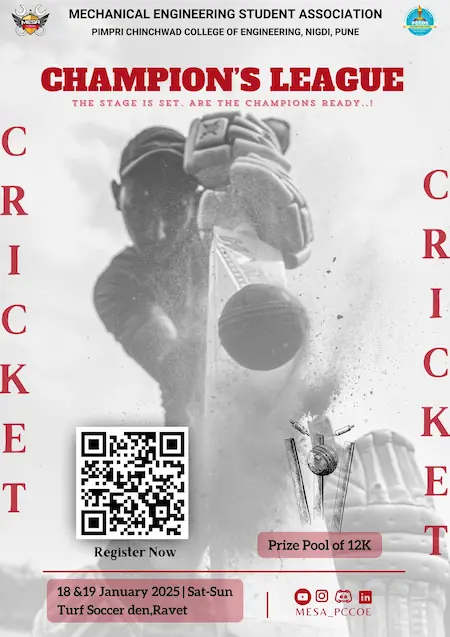
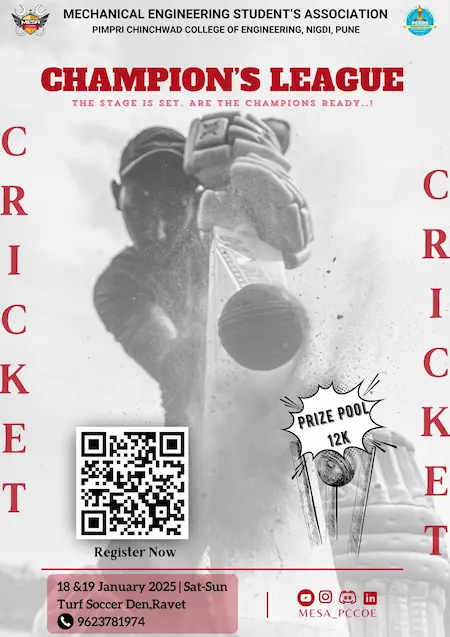
updated events

Changed region(s): [[0.0933, 0.5965, 0.9022, 1.0], [0.1244, 0.0, 0.8711, 0.0597]]

diff --git a/components/EventPopup.tsx b/components/EventPopup.tsx
@@ -1,7 +1,6 @@
 "use client"
 
 import { useState, useEffect } from 'react'
-import { X } from 'lucide-react'
 import { Button } from "@/components/ui/button"
 import {
   Dialog,
@@ -25,7 +24,7 @@ export function EventPopup() {
 
   const handleRegisterClick = (e: React.MouseEvent) => {
     e.stopPropagation()
-    window.open('https://docs.google.com/forms/d/e/1FAIpQLSd8f3GrwLbeSHZ5cZF1HNEXjdILUiZAOUqbfYk8p35XhGzPYg/viewform?usp=dialog', '_blank', 'noopener,noreferrer')
+    window.open('/upcoming-events/#champions-league', '_blank', 'noopener,noreferrer')
   }
 
   return (
@@ -34,18 +33,19 @@ export function EventPopup() {
         <DialogHeader>
           <DialogTitle className='text-3xl text-center'>Upcoming Event!</DialogTitle>
           <DialogDescription className='text-center'>
-            Join us for an exciting event Firestorm
+            Join us for an exciting event Champions Cricket Tournament
           </DialogDescription>
         </DialogHeader>
         <div className="flex flex-col items-center space-y-4">
           <Image
-            src="/upcoming/firestorm_small.webp"
+            src="/upcoming/Champions-small.webp"
             alt={`Poster for firestorm event`}
             width={200}
             height={125}
             className="mb-4 rounded-md"
           />
-          <p>Date: Dec 26, 2024</p>
+          <p>Date: Jan 18, 2025</p>
+          <p>Prize Pool: 12K</p>
           {/* <p>Time: 2:00 PM EST</p> */}
           <Button
             variant="outline"

diff --git a/components/Upcoming.tsx b/components/Upcoming.tsx
@@ -20,10 +20,9 @@ const events = [
     isRegistrationClosed: false,
     poster: "/upcoming/Champions.webp",
     formLink: "https://docs.google.com/forms/d/19RrIlCgttPpaP2fTPC-9FmmMzzGTo6f5w6kB0pf3T18",
-    rules: `1. League Stage: 7 Overs Matches
-  2. Semi-finals & Finals: 10 Overs Matches
-  3. Eligibility: 
-  Only students from the Same Year, Same Department can participate in this tournament.
+    rules: `1. **League Stage**: 7 Overs Matches
+  2. **Semi-finals & Finals**: 10 Overs Matches
+  3. **Eligibility**: Only students from the Same Year, Same Department can participate in this tournament.
   Team Registration: Register your full team of 7 players , 3 Sub (optional)`,
   },
 ]
@@ -184,10 +183,10 @@ export default function EventsPage() {
       </div>
       {events.map((event) => (
         <Modal key={event.id} isOpen={openModalId === event.id} onClose={handleCloseModal}>
-          <div className="space-y-4">
+          <div className="space-y-2">
             <div className="flex flex-row justify-between items-center mb-4">
               <h2 className="text-2xl font-bold">{event.title}</h2>
-              <div className="flex justify-end mt-4">
+              <div className="flex justify-end">
                 {!event.isFinished && !event.isRegistrationClosed ? (
                   <Button
                     variant="outline"

diff --git a/app/page.tsx b/app/page.tsx
@@ -9,11 +9,11 @@ export default function Home() {
   return (
     <div className=" mt-16 md:mt-10">
       <Slideshow />
+      <EventPopup />
       <Teachers />
       <MeetOurTeam />
       <TestimonialSlider />
       <Footer />
-      {/* <EventPopup /> */}
     </div>
   );
 }
